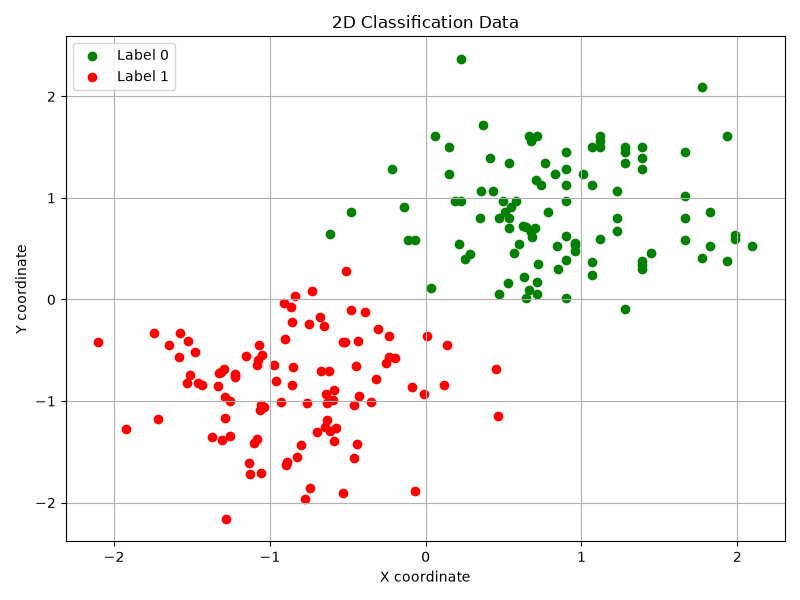
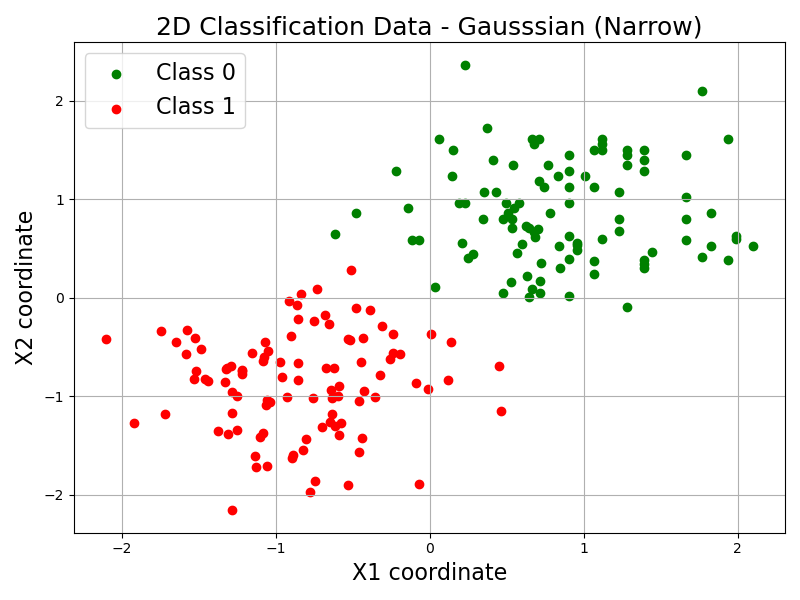
Completed data visualization

diff --git a/scripts/data_plotting_2d.py b/scripts/data_plotting_2d.py
@@ -11,8 +11,8 @@ import numpy as np
 import matplotlib.pyplot as plt
 import torch
 
-data_path = "./data/gaussian_3d/gaussian_3d_narrow.csv"
-output_path = "./outputs/gaussian_3d_narrow_results"
+data_path = "./data/moons_2d/moons_2d_narrow.csv"
+output_path = "./outputs/moons_2d_narrow_results"
 
 coordinates, classifications = import_data(data_path)
 
@@ -28,19 +28,19 @@ plt.scatter(
     coordinates[labels == 0, 0],
     coordinates[labels == 0, 1],
     color="green",
-    label="Label 0",
+    label="Class 0",
 )
 plt.scatter(
     coordinates[labels == 1, 0],
     coordinates[labels == 1, 1],
     color="red",
-    label="Label 1",
+    label="Class 1",
 )
-plt.xlabel("X coordinate")
-plt.ylabel("Y coordinate")
-plt.title("2D Classification Data")
+plt.xlabel("X1 coordinate", fontsize=16)
+plt.ylabel("X2 coordinate", fontsize=16)
+plt.title("2D Classification Data - Moons (Narrow)", fontsize=18)
 plt.grid(True)
-plt.legend()
+plt.legend(fontsize=16)
 plt.tight_layout()
 plt.savefig(os.path.join(output_path, "data_visualization.png"))
 plt.show()

diff --git a/scripts/data_plotting_3d.py b/scripts/data_plotting_3d.py
@@ -30,21 +30,21 @@ axis.scatter(
     coordinates[labels == 0, 1],
     coordinates[labels == 0, 2],
     color="green",
-    label="Label 0",
+    label="Class 0",
 )
 axis.scatter(
     coordinates[labels == 1, 0],
     coordinates[labels == 1, 1],
     coordinates[labels == 1, 2],
     color="red",
-    label="Label 1",
+    label="Class 1",
 )
-axis.set_xlabel("X1 coordinate")
-axis.set_ylabel("X2 coordinate")
-axis.set_zlabel("X3 coordinate")
-axis.set_title("3D Classification Data")
+axis.set_xlabel("X1 coordinate", fontsize=16)
+axis.set_ylabel("X2 coordinate", fontsize=16)
+axis.set_zlabel("X3 coordinate", fontsize=16)
+axis.set_title("3D Classification Data - Gaussian (Overlap)", fontsize=18)
 axis.grid(True)
-axis.legend()
+axis.legend(fontsize=16)
 figure.tight_layout()
 figure.savefig(os.path.join(output_path, "data_visualization.png"))
 plt.show()
